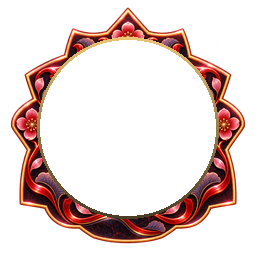
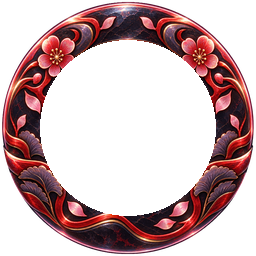
feat(map): a cleared node wears bronze, silver or gold by its stars
The skin's map-node-done slot becomes three, map-node-done-1, -2 and -3, and
a cleared level wears the tier of the stars it kept: bronze for one, silver
for two, gold for three. Until the tiered art lands, all three carry today's
done node in every realm.

The guardian's ring is the shipped art again: the redrawn boss ring is
dropped. The boss node keeps its size, its breathing glow and its stars.

diff --git a/unity/Assets/ZKube/Tests/PlayMode/Presentation/WireframeGeometryTests.cs b/unity/Assets/ZKube/Tests/PlayMode/Presentation/WireframeGeometryTests.cs
@@ -449,7 +449,7 @@ namespace ZKube.Tests.Presentation
         }
 
         // The map tells its nodes apart (DECISIONS 2026-10-02): locked, open,
-        // done and current each wear the realm's own piece, the current one
+        // current and done, in the tier of its stars, each wear the realm's own piece, the current one
         // pulses (and holds still under reduced motion), and the guardian is
         // the boss: its own ring, nearly twice a node, in a breathing glow.
         [UnityTest] public IEnumerator TheMapTellsItsNodesApartAndItsGuardianIsTheBoss()
@@ -473,10 +473,12 @@ namespace ZKube.Tests.Presentation
                     string Slot(int level) => Face(level).sprite.name.Replace("(Clone)", "");
                     // The wireframe's map: levels 1-3 done, 4 open and current, 5-9 locked, 10 the guardian.
                     var art = shell.Artwork;
-                    foreach (var (level, slot) in new[] { (1, SkinSlots.MapNodeDone), (3, SkinSlots.MapNodeDone), (4, SkinSlots.MapNodeCurrent),
+                    // A cleared node wears the tier of its stars: gold for three, silver for two, bronze for one.
+                    foreach (var (level, slot) in new[] { (1, "map-node-done-3"), (2, "map-node-done-2"), (3, "map-node-done-1"), (4, SkinSlots.MapNodeCurrent),
                         (5, SkinSlots.MapNodeLocked), (9, SkinSlots.MapNodeLocked), (10, SkinSlots.MapNodeGuardian) })
                         Assert.AreEqual(art.SkinRealm(slot).name.Replace("(Clone)", ""), Slot(level), "Level " + level + " wears " + slot);
-                    Assert.AreNotEqual(art.SkinRealm(SkinSlots.MapNodeOpen), art.SkinRealm(SkinSlots.MapNodeDone), "Done is its own piece");
+                    for (int stars = 1; stars <= 3; stars++)
+                        Assert.AreNotEqual(art.SkinRealm(SkinSlots.MapNodeOpen), art.SkinRealm(PageViews.DoneNode(stars)), "Done is its own piece");
                     TMP_Text Number(int level) => root.GetComponentsInChildren<TMP_Text>().Single(text => text.name == "Trial " + level + " number");
                     Assert.AreEqual(art.Token(SkinTokens.TextOnPrimary), Number(1).color, "A done node's number is dark on its light face");
                     Assert.AreEqual(art.Token(SkinTokens.Text), Number(4).color, "The current node's number keeps the light ink");

diff --git a/unity/Assets/ZKube/Runtime/Presentation/PageViews.Campaign.cs b/unity/Assets/ZKube/Runtime/Presentation/PageViews.Campaign.cs
@@ -179,8 +179,8 @@ namespace ZKube.Presentation
 
         // One level, in its realm's own node set. Locked: dark stone with a
         // lock. Open: the glowstone with its number. Done: its own settled
-        // stone, gold-rimmed and pale, its number in the dark ink and its stars
-        // under it. Current: larger, its cream rim, pulsing in
+        // stone in the tier of its stars (bronze, silver, gold), its number in
+        // the dark ink and its stars under it. Current: larger, its cream rim, pulsing in
         // its breathing light (reduced motion: the light alone). The guardian,
         // the realm's boss: its portrait in its own ring, nearly twice a node,
         // in the realm's breathing glow over a wider halo, dimmed with a lock
@@ -223,7 +223,7 @@ namespace ZKube.Presentation
             }
             else
             {
-                var face = RealmPiece(name + " node", lit ? SkinSlots.MapNodeCurrent : done ? SkinSlots.MapNodeDone : open ? SkinSlots.MapNodeOpen : SkinSlots.MapNodeLocked,
+                var face = RealmPiece(name + " node", lit ? SkinSlots.MapNodeCurrent : done ? DoneNode(trial.Stars) : open ? SkinSlots.MapNodeOpen : SkinSlots.MapNodeLocked,
                     rect, hit.transform);
                 if (lit) face.gameObject.AddComponent<SkinPulse>();
                 if (open || done)
@@ -239,6 +239,8 @@ namespace ZKube.Presentation
                         hit.transform);
             actions.Wire(button, new PageAction { Name = name, Enabled = trial.Available, CanInvoke = trial.CanOpen, Invoke = trial.Open }, fade: false);
         }
+        // A cleared node's piece, by the stars it kept: bronze for one, silver for two, gold for three.
+        public static string DoneNode(int stars) => "map-node-done-" + Mathf.Clamp(stars, 1, 3);
         // A piece of the page realm's own art (its map nodes), at its own aspect.
         private Image RealmPiece(string name, string slot, Rect rect, Transform parent)
         {

diff --git a/crates/zkube-codegen/src/skins.rs b/crates/zkube-codegen/src/skins.rs
@@ -200,12 +200,15 @@ pub const REALM_PAINTINGS: [&str; 2] = ["background", "map"];
 pub const REALM_STRETCH_SLOTS: [&str; 1] = ["ledge"];
 
 /// Each realm's own map nodes, drawn at their own aspect ratio: a level locked,
-/// open, current and done, and the guardian's ring around its portrait.
-pub const REALM_NODE_SLOTS: [&str; 5] = [
+/// open and current, cleared in three tiers by its stars (bronze for one,
+/// silver for two, gold for three), and the guardian's ring around its portrait.
+pub const REALM_NODE_SLOTS: [&str; 7] = [
     "map-node-locked",
     "map-node-open",
     "map-node-current",
-    "map-node-done",
+    "map-node-done-1",
+    "map-node-done-2",
+    "map-node-done-3",
     "map-node-guardian",
 ];
 

diff --git a/AGENTS.md b/AGENTS.md
@@ -413,15 +413,16 @@ for a result and the board; `MenuMusicPlaysUnderTheTabPagesAndStopsForAResultAnd
 
 Skins live in assets/skins/<id>/ and are listed in assets/catalog.json; Lumen is the only skin and the first is
 the default. The codegen owns the slot and token list, emits it to C# and rejects a missing or unknown slot for
-the UI or any realm. Each realm owns its block tints, light colours, ledge rail, map node set and its colourway
-of the two product wordmarks (Home wears the day's Daily realm's), and skin.json places its key light, shafts and
-motes; paintings are JPEG and every piece with alpha is PNG. Ladder borders and
-badges derive from the core's tier count. build.py gives each skin UI kit and skin realm its own atlas with the
+the UI or any realm. Each realm owns its block tints, light colours, ledge rail, map node set (locked, open,
+current, cleared in bronze, silver and gold by its stars, and the guardian's ring) and its colourway of the two
+product wordmarks (Home wears the day's Daily realm's), and skin.json places its key light, shafts and motes;
+paintings are JPEG and every piece with alpha is PNG. Ladder borders and badges derive from the core's tier
+count. build.py gives each skin UI kit and skin realm its own atlas with the
 authored stretch borders. `every_skin_fills_every_ui_and_realm_slot`,
 `every_realm_declares_its_own_block_tints_and_light`, `every_realm_places_its_key_light_shafts_and_motes`,
 `paintings_are_jpeg_and_everything_with_alpha_is_png`,
-`EverySkinMustCoverEveryRealm` and `test_skin_ui_and_realm_slots_import_into_their_own_atlases_with_borders`
-guard the contract. Kit art carries no seam or stray highlight;
+`EverySkinMustCoverEveryRealm`, `test_skin_ui_and_realm_slots_import_into_their_own_atlases_with_borders` and
+`TheMapTellsItsNodesApartAndItsGuardianIsTheBoss` guard the contract. Kit art carries no seam or stray highlight;
 `NoSlicedKitPieceShowsASeamAtItsSliceLinesAtTwiceItsSize` and
 `test_no_sliced_kit_piece_carries_a_stray_point_light` check the rendered and authored pixels.
 

diff --git a/README.md b/README.md
@@ -99,7 +99,7 @@ Android builds are inspected after they finish. build.py holds a lease, so two r
 - A skin is a folder under assets/skins/<id>/, listed in assets/catalog.json. Lumen is the only skin.
 - Its slots are declared once, in crates/zkube-codegen/src/skins.rs: UI kit pieces (slice borders in skin.json),
   goal pictograms, ladder borders and badges, and per realm a background and map painting (JPEG)
-  plus a ledge, mote, four block sprites, five map nodes and its colourway of the two product wordmarks (PNG with
+  plus a ledge, mote, four block sprites, seven map nodes and its colourway of the two product wordmarks (PNG with
   alpha).
 - Each realm's tokens.json holds its block tints and light colours; skin.json places its key light, shafts and
   motes.
